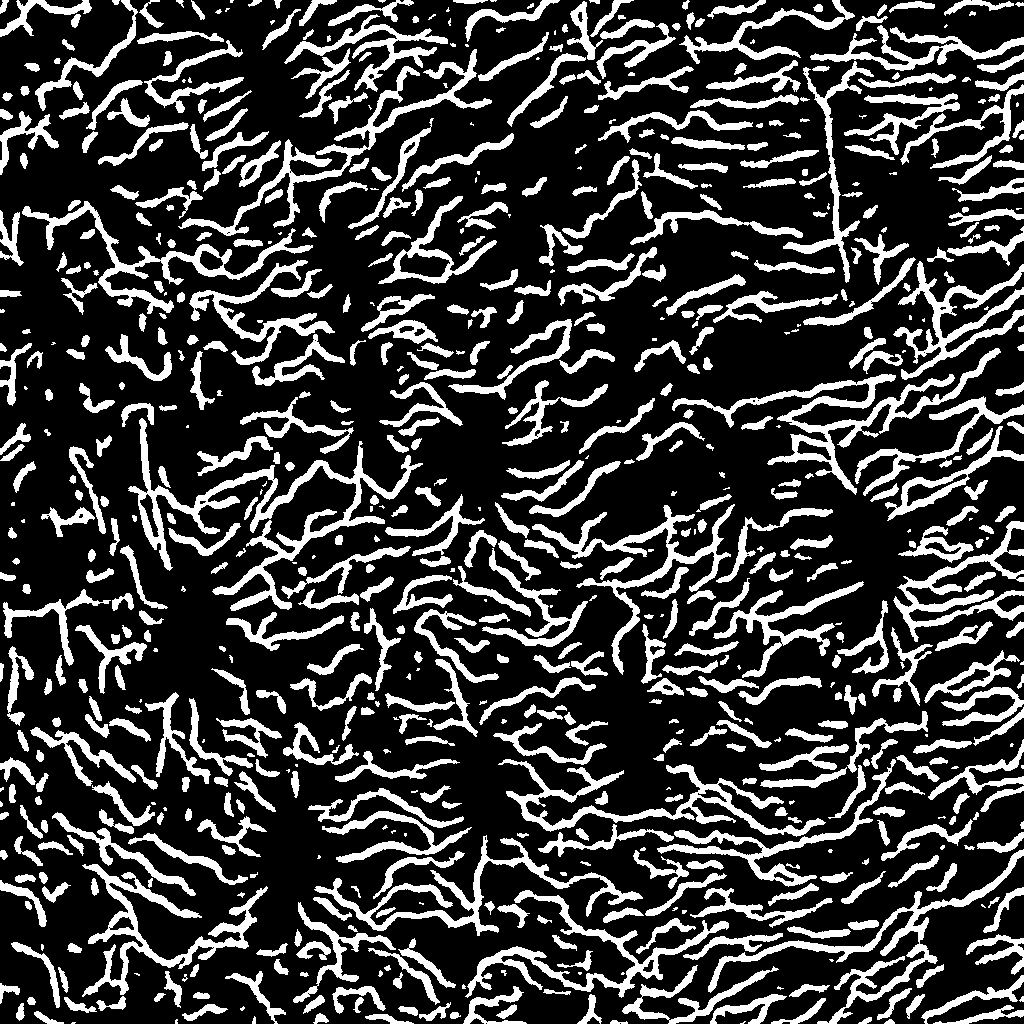
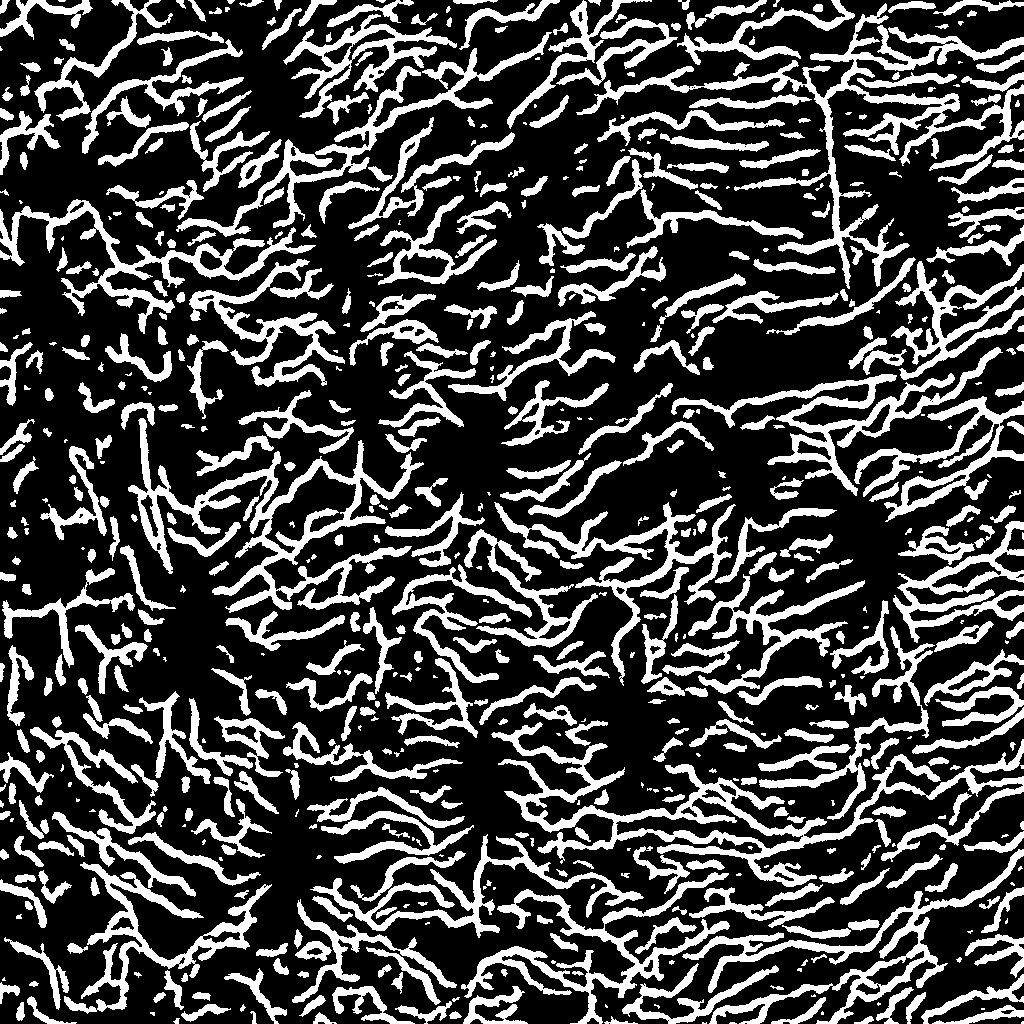
Step 1: adopt hysteresis + gap bridging as defaults
THRESHOLD_MODE="hysteresis", HYSTERESIS_LOW_FRACTION=0.75 and
GAP_BRIDGING=True are now defaults, on the Phase 2 guard comparison plus
the visual crop check confirming added connections follow real dim
threads. Of eight settings tried this was inside both pre-declared guards
on tuning AND held-out (1.13x length vs a 1.20x limit, 2.13x loops vs
max(1.5x, +50)) while cutting components per 10,000 skeleton px from 225
to 169.

THE 543-2 REFERENCE CHECK CHANGES: 37.00 / 29.43 (old) -> 62.33 / 27.41
with 21 bridges (new). Both recorded in PROGRESS.md; the old path stays
reproducible via --threshold-mode multiotsu_low and omitting
--gap-bridging.

The +68% jump in edge count is expected and is why Phase 4 recommended
against edge count as a primary outcome -- it is the most
segmentation-sensitive metric measured. Per-field metrics and roots/cell
moved ~11-13% over the same change.

Changed region(s): [[0.625, 0.3125, 0.6562, 0.3438], [0.5312, 0.9375, 0.5625, 0.9688], [0.1562, 0.1875, 0.1875, 0.2188]]

diff --git a/src/canaliculi_v1.py b/src/canaliculi_v1.py
@@ -295,26 +295,43 @@ RIDGE_FILTER = "sato"
 RIDGE_SIGMAS_PX = (1.0, 2.0, 3.0, 4.0)
 
 # How the (pre-processed) image is cut into foreground/background.
-#   "multiotsu_low" (default) the lower of the two 3-class multi-Otsu cuts
-#   "hysteresis"    keep dim pixels only where they connect to a
+#   "multiotsu_low" the lower of the two 3-class multi-Otsu cuts. The
+#                   pre-2026-09-28 default, kept for comparison.
+#   "hysteresis"    (DEFAULT) keep dim pixels only where they connect to a
 #                   confidently bright one -- reconnects a dim stretch of a
 #                   real thread without admitting isolated background
-#                   speckle. NOT default.
-THRESHOLD_MODE = "multiotsu_low"
+#                   speckle.
+#
+# ADOPTED AS DEFAULT 2026-09-28, on the Phase 2 comparison plus a visual
+# check of the crops confirming the added connections follow real dim
+# threads. Of eight settings tried, this one (with bridging, below) was
+# inside BOTH pre-declared guards on the tuning AND held-out sets --
+# 1.13x total skeleton length against a 1.20x limit, 2.13x loops against a
+# max(1.5x, +50) limit -- while cutting components per 10,000 skeleton px
+# from 225 to 169 and raising owned length fraction from 0.244 to 0.343.
+# Five of the eight settings failed a guard; see DECISIONS_NEEDED.md D1.
+THRESHOLD_MODE = "hysteresis"
 
 # For "hysteresis": the high cut is the image's own multi-Otsu low cut (the
-# value the default pipeline uses), and the low cut is this fraction of it.
-# Both are therefore derived per image from its own histogram, with no
-# global intensity constant, as the brief requires. 0.5 is an INITIAL
-# VALUE, NOT YET TUNED: it is the midpoint between the current cut and
-# zero, chosen so the permissive cut is clearly below the strict one
-# without reaching the background mode. Phase 2's guard metrics (total
-# skeleton length, loop count) are what would justify moving it.
-HYSTERESIS_LOW_FRACTION = 0.5
+# value the old default used), and the low cut is this fraction of it. Both
+# are therefore derived per image from its own histogram, with no global
+# intensity constant.
+#
+# 0.75 was SELECTED, not assumed. 0.5 was tried first and failed both
+# guards (1.30x length, 6.53x loops) by growing dim regions into sheets;
+# 0.75 passes on tuning and held-out alike. It remains lightly tuned --
+# one value tried after one failure, not a swept parameter -- so treat it
+# as the weakest-provenance number in the default set.
+HYSTERESIS_LOW_FRACTION = 0.75
 
-# Evidence-based gap bridging (Phase 2c). NOT default. See gap_bridging.py
-# for the three tests a bridge must pass and where each limit comes from.
-GAP_BRIDGING = False
+# Evidence-based gap bridging (Phase 2c). See gap_bridging.py for the three
+# tests a bridge must pass and where each limit comes from.
+#
+# ADOPTED AS DEFAULT 2026-09-28. On top of hysteresis it adds only ~18
+# bridges per image, against ~122 on the old default, because hysteresis
+# has already closed most of the same gaps -- two independent mechanisms
+# converging on the same gaps, which is the evidence those gaps are real.
+GAP_BRIDGING = True
 
 # Radius (px) of the disk structuring element for the white top-hat.
 # Adapted from OCY_thr_stack.m, which uses strel('disk',25) at 0.2 um/voxel.

diff --git a/PROGRESS.md b/PROGRESS.md
@@ -1,6 +1,6 @@
 # Progress status
 
-_Last updated: 2026-09-24 (overnight autonomous run). Everything below is v1-raw/v2-raw and pre-validation
+_Last updated: 2026-09-28 (fixes round 2). Everything below is v1-raw/v2-raw and pre-validation
 against Mahmoud's ImageJ ground truth counts, unless stated otherwise._
 
 ## Features that exist
@@ -352,6 +352,33 @@ against Mahmoud's ImageJ ground truth counts, unless stated otherwise._
    imported from v1's file (`from count_lacunae import load_channel`), so
    removing v1 requires a small refactor first (move that loader to a
    shared module).
+
+## Fixes round 2, 2026-09-28 (branch `canaliculi-v2-fixes`)
+
+### Step 1 (done) — Phase 2 setting adopted as default
+`THRESHOLD_MODE="hysteresis"`, `HYSTERESIS_LOW_FRACTION=0.75`,
+`GAP_BRIDGING=True` are now the DEFAULTS, on the Phase 2 guard comparison
+plus a visual check of the crops confirming the added connections follow
+real dim threads.
+
+**Reference check for 543-2 has therefore CHANGED:**
+
+| | canaliculi/cell | mean edge length px | bridges |
+| --- | --- | --- | --- |
+| old default (to 2026-09-28) | 37.00 | 29.43 | 0 |
+| **new default (from 2026-09-28)** | **62.33** | **27.41** | **21** |
+
+Use **62.33 / 27.41** as the regression check from now on. The old
+`multiotsu_low` path is still available via `--threshold-mode
+multiotsu_low` and `GAP_BRIDGING` via omitting `--gap-bridging`, so the
+old numbers remain reproducible.
+
+Note the edge count rose 37.00 -> 62.33 (+68%). That is expected and is
+exactly why Phase 4 recommended against edge count as a primary outcome:
+it is the most segmentation-sensitive metric measured (+77.9% pooled). The
+per-field metrics and roots/cell moved by ~11-13% over the same change.
+`HYSTERESIS_LOW_FRACTION=0.75` remains the weakest-provenance number in
+the default set -- one value tried after one failure, not a sweep.
 
 ## Overnight autonomous run, 2026-09-24
 
